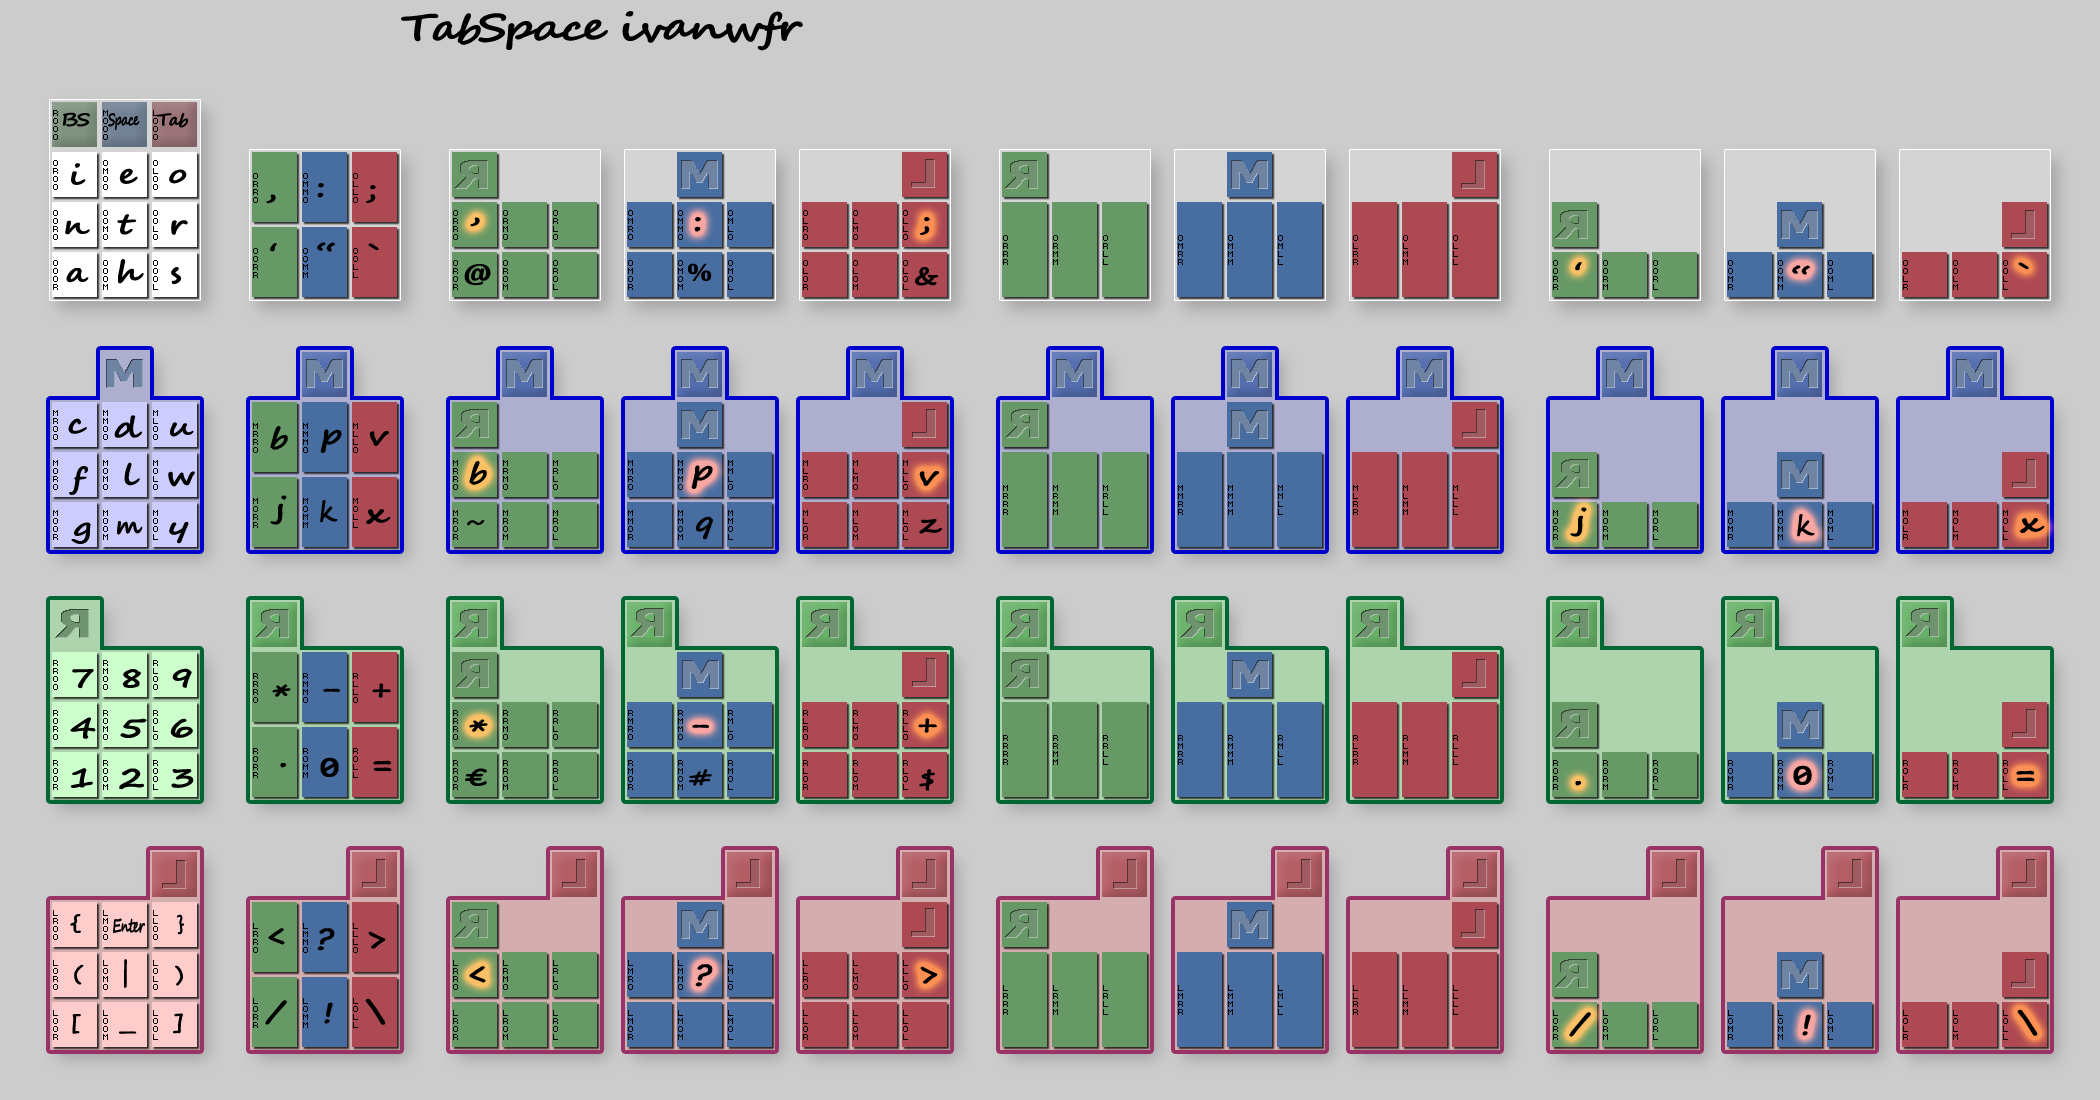
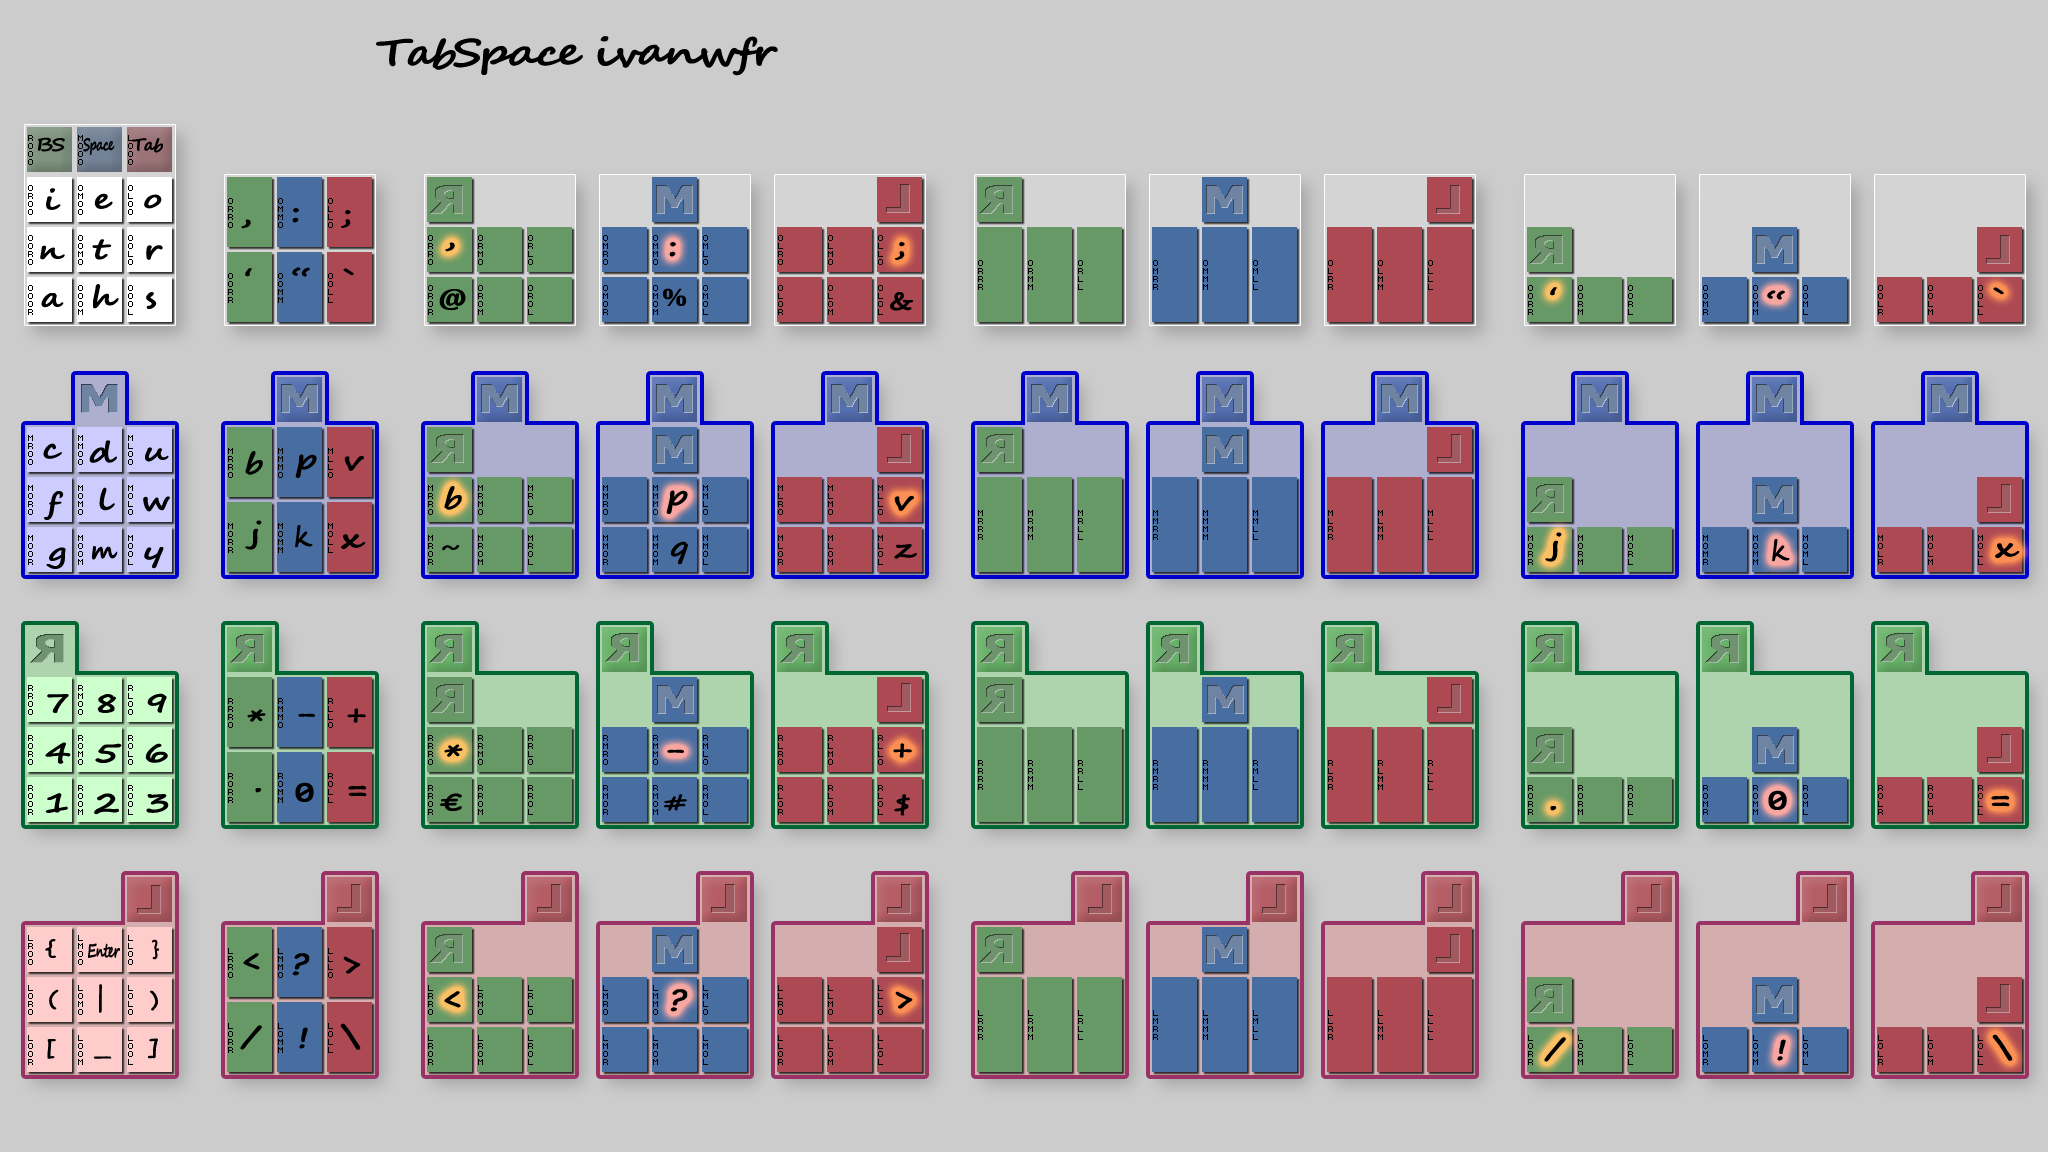
MessagEase Layout

diff --git a/index.html b/index.html
@@ -95,6 +95,14 @@
    </a>
    </p>
 
+   <p>
+   <em>TabSpace MessagEase</em><br>
+   <a href="images/Cheat_TabSpace_MessagEase.png" target="_blank">
+    <img style="width:80%; margin:1em;" src="images/Cheat_TabSpace_MessagEase.png">
+   </a>
+   </p>
+   <hr>
+
    <!-- }}} -->
   </div>
   <!-- }}} -->
